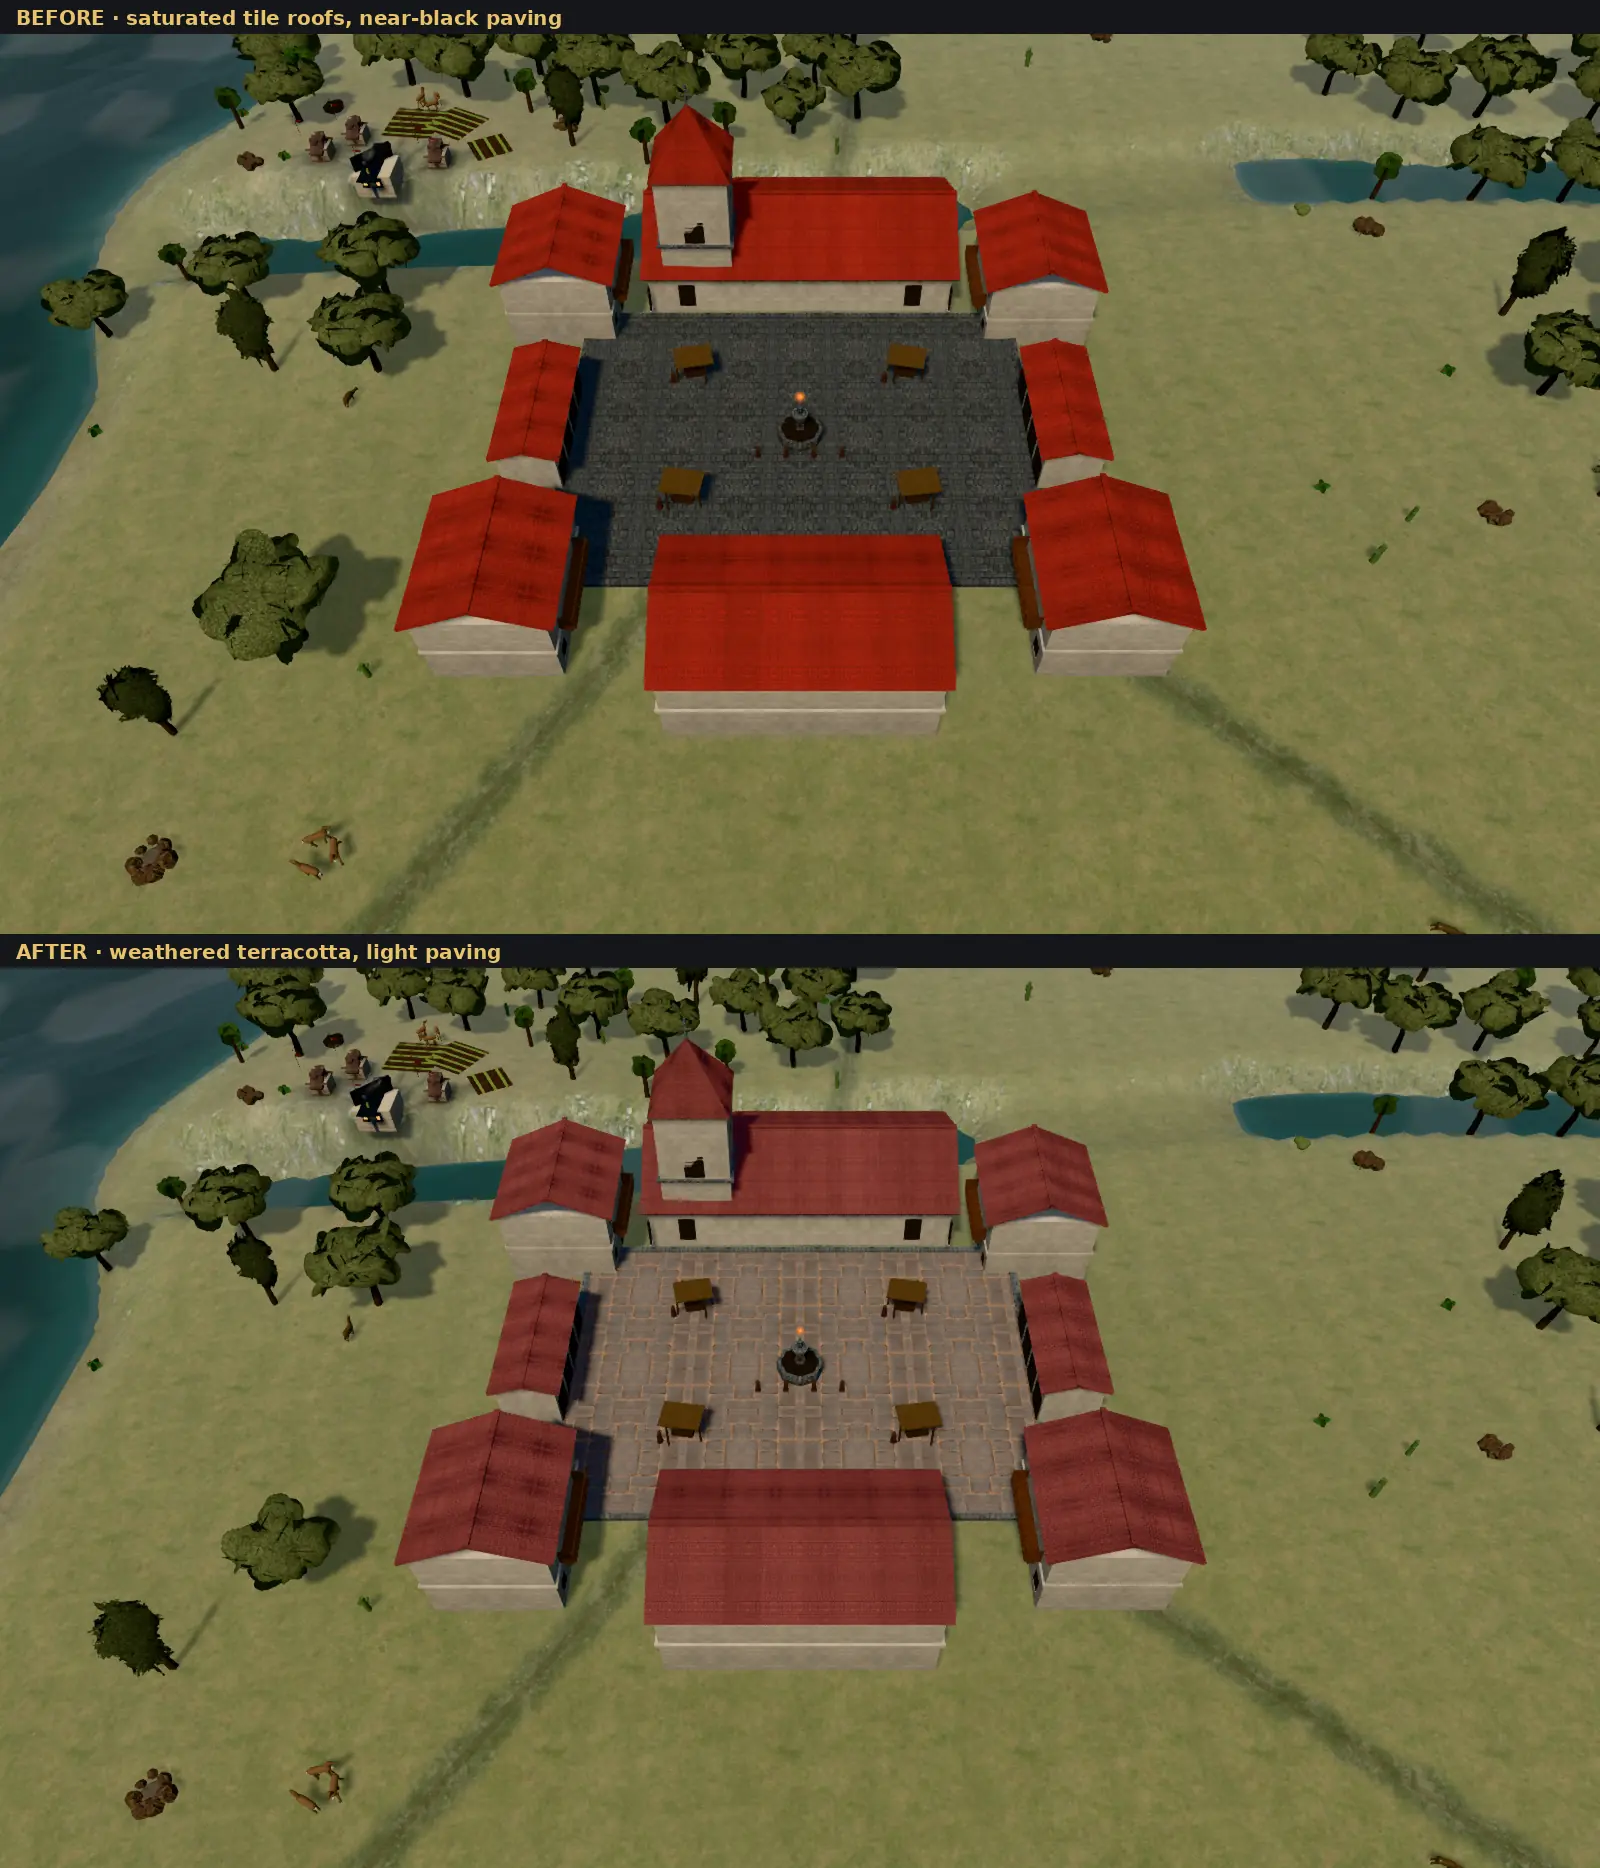
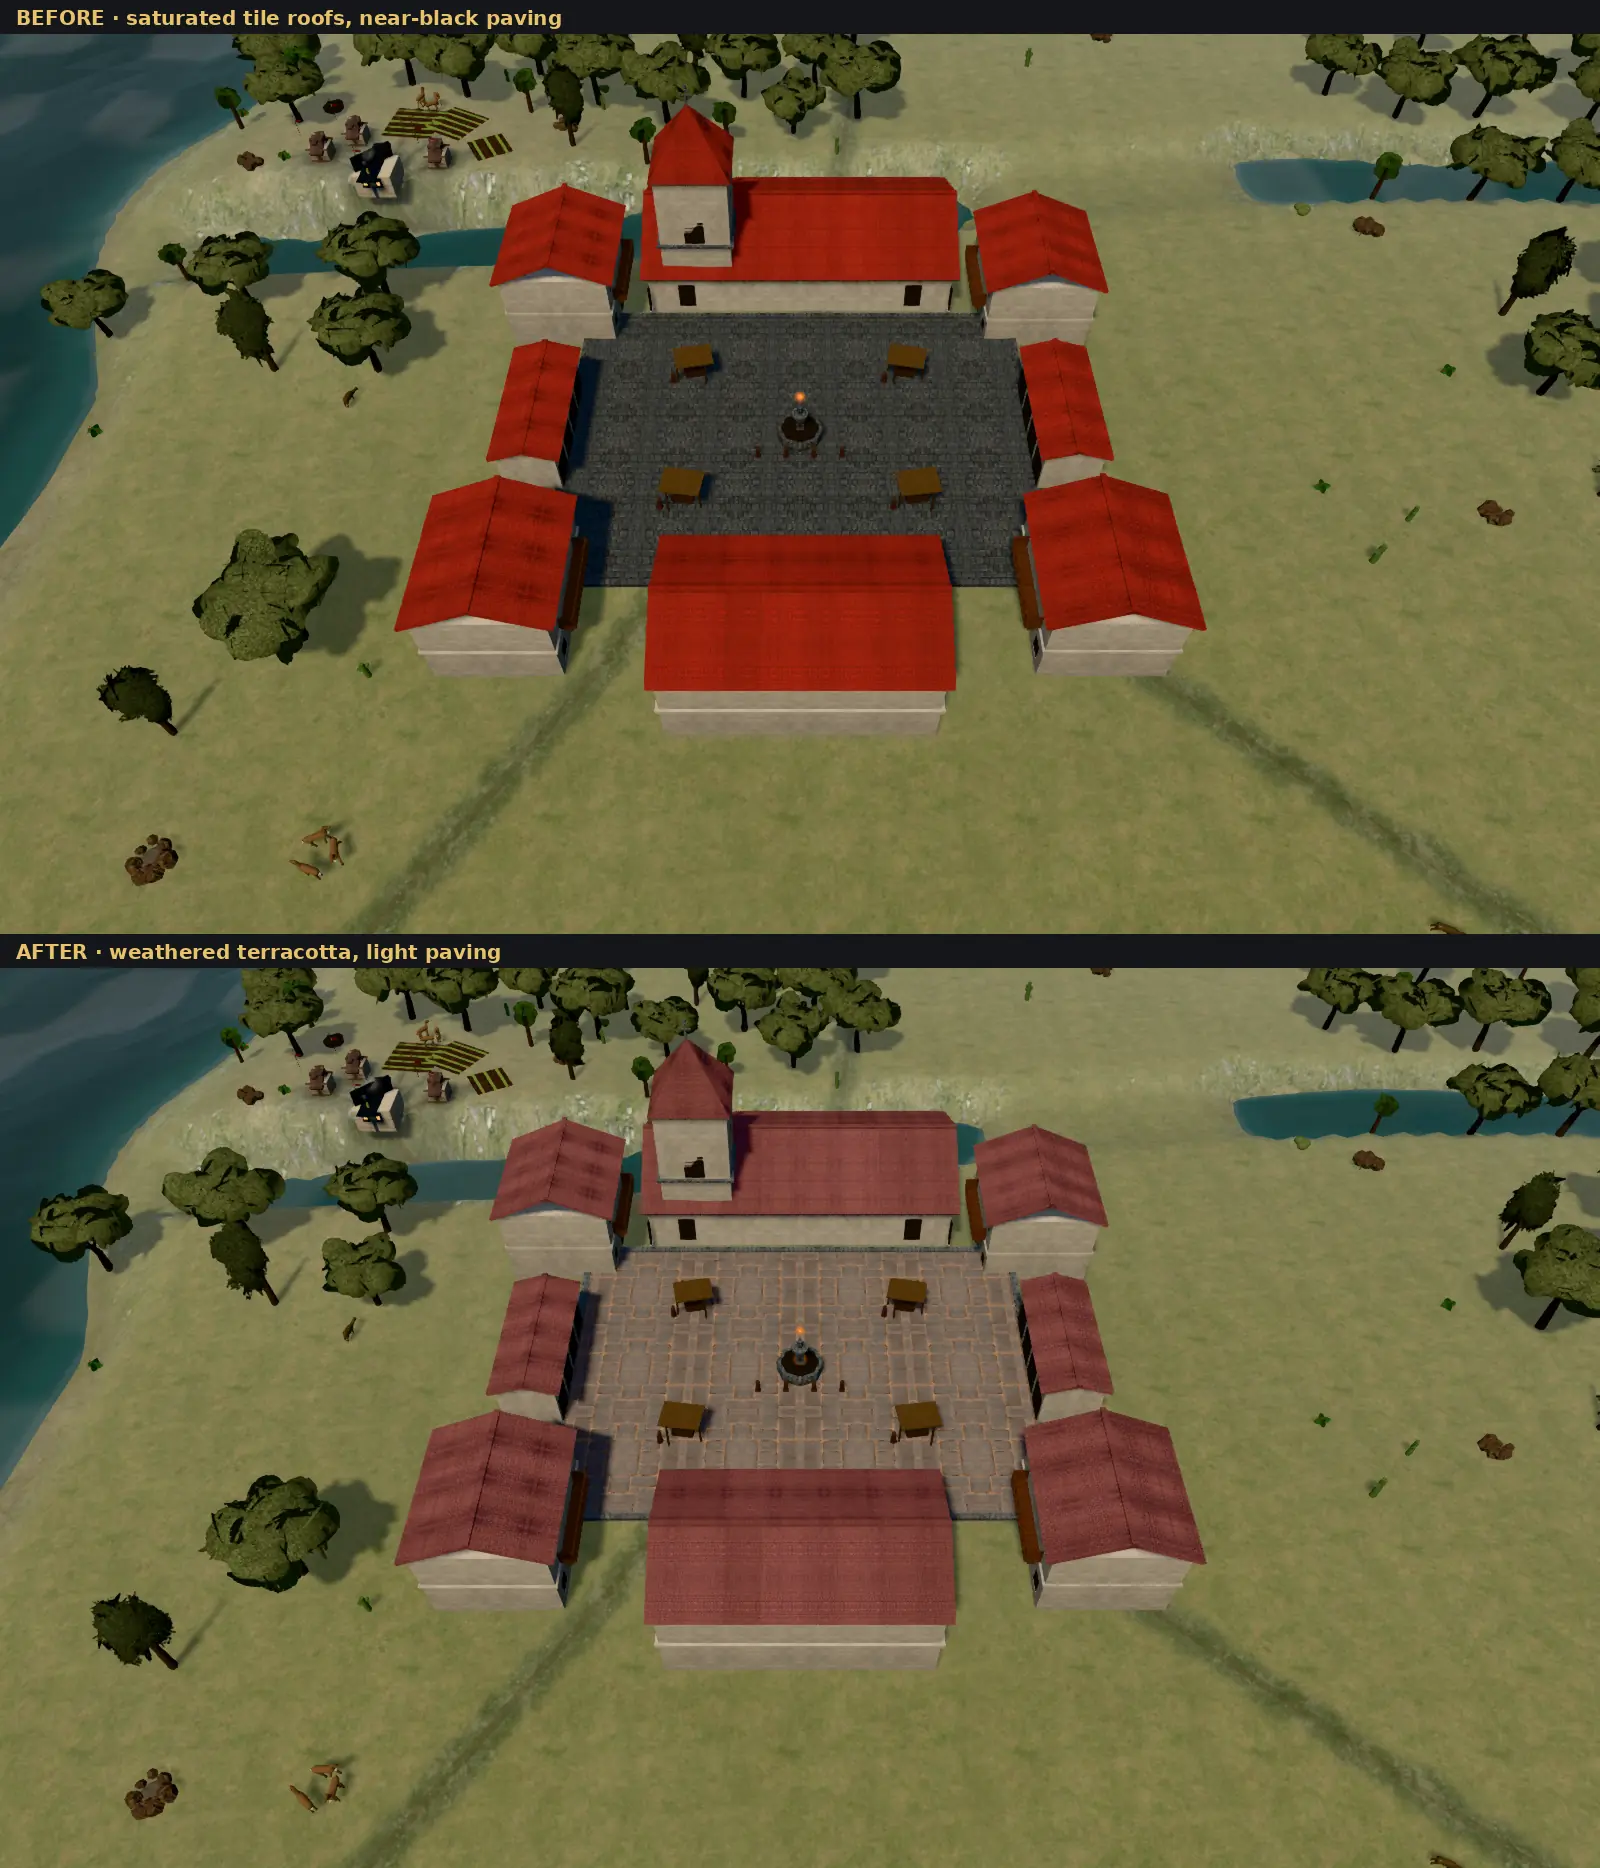
fix(architecture): tune the colonial roofs and pin the runtime surfaces
The first pass left the roofs at saturation 0.66 and darker than the originals.
The tile now keeps 42 % of its colour with a warm-tan tint and a 1.15 lift
(roof sample saturation 0.54; the plaza stays light). The docs state the
retention correctly, the test asserts the fixed §4.2 budgets and a ≤ 8-material
kit, and it also checks the game GLB and `ARCH_SURFACES` so a stale asset or a
dropped paving entry cannot pass. The fog key-composition test and the evidence
sheet are updated; PROVENANCE notes the LOD0 framing, the LOD1 coverage and the
live-frame difference.

diff --git a/tests/colonial-architecture-kit.test.ts b/tests/colonial-architecture-kit.test.ts
@@ -2,6 +2,7 @@ import { describe, it, expect } from 'vitest';
 import fs from 'node:fs';
 import path from 'node:path';
 import * as THREE from 'three';
+import { ARCH_SURFACES } from '../src/rendering/architectureKit';
 import { applyFow, createFowUniforms } from '../src/rendering/FowMaterial';
 
 interface LodStats {
@@ -34,6 +35,26 @@ const manifests = new Map<string, Manifest>(
     JSON.parse(fs.readFileSync(path.join(ROOT, `colonial_${name}_manifest.json`), 'utf8')) as Manifest,
   ]),
 );
+
+function glbJson(file: string): Record<string, any> {
+  const data = fs.readFileSync(file);
+  let offset = 12;
+  while (offset < data.length) {
+    const length = data.readUInt32LE(offset);
+    const type = data.readUInt32LE(offset + 4);
+    offset += 8;
+    if (type === 0x4e4f534a) {
+      return JSON.parse(
+        data
+          .subarray(offset, offset + length)
+          .toString('utf8')
+          .trim(),
+      ) as Record<string, any>;
+    }
+    offset += length;
+  }
+  throw new Error(`no JSON chunk in ${file}`);
+}
 
 describe('colonial architecture kit', () => {
   it('ships every piece within the §4.2 triangle and material budgets', () => {
@@ -69,6 +90,18 @@ describe('colonial architecture kit', () => {
     for (const name of ['catedral', 'cabildo', 'casona', 'portal', 'pileta', 'patio_wall']) {
       expect(manifests.get(name)!.lods.LOD0.materials, name).not.toContain('MAT-Arch_ColonialPaving');
     }
+  });
+});
+
+describe('runtime surfaces', () => {
+  it('ships the paving in the game GLB and keeps the tile desaturated', () => {
+    expect(ARCH_SURFACES['MAT-Arch_ColonialPaving'].set).toBe('ground_plaza');
+    expect(ARCH_SURFACES['MAT-Arch_ColonialStone'].lift).toBeGreaterThan(1);
+    expect(ARCH_SURFACES['MAT-Arch_ColonialTile'].saturation).toBeLessThanOrEqual(0.5);
+    const json = glbJson(path.resolve('src/assets/architecture/colonial/colonial_plaza_lod0.glb'));
+    expect((json.materials ?? []).map((material: { name?: string }) => material.name)).toContain(
+      'MAT-Arch_ColonialPaving',
+    );
   });
 });
 

diff --git a/src/rendering/architectureKit.ts b/src/rendering/architectureKit.ts
@@ -120,7 +120,7 @@ function footprint(model: ArchModel): THREE.Box3 {
  * are box-projected at world scale (TILE in the Blender script). `keepColor` keeps the material's
  * documented paint colour under a near-white detail map; otherwise `tint` (times `lift`) colours the set.
  */
-const ARCH_SURFACES: Record<
+export const ARCH_SURFACES: Record<
   string,
   { set: string; tint?: number; normal: number; keepColor?: boolean; lift?: number; saturation?: number }
 > = {
@@ -155,7 +155,13 @@ const ARCH_SURFACES: Record<
   // paving set; the stone is lifted so the kerb and the fountain do not read black.
   'MAT-Arch_ColonialPlaster': { set: 'plaster_detail', normal: 0.6, keepColor: true },
   'MAT-Arch_ColonialAdobe': { set: 'plaster_detail', normal: 0.9, keepColor: true },
-  'MAT-Arch_ColonialTile': { set: 'tile', tint: 0xead8c9, normal: 0.7, saturation: 0.55 },
+  'MAT-Arch_ColonialTile': {
+    set: 'tile',
+    tint: 0xefd9bf,
+    normal: 0.7,
+    saturation: 0.42,
+    lift: 1.15,
+  },
   'MAT-Arch_ColonialWood': { set: 'wood', tint: 0x7a5c46, normal: 0.7 },
   'MAT-Arch_ColonialStone': { set: 'wall_cutstone', tint: 0xd8d2c2, normal: 0.8, lift: 1.25 },
   'MAT-Arch_ColonialPaving': { set: 'ground_plaza', tint: 0xf0e6d6, normal: 0.5, lift: 1.25 },

diff --git a/PROVENANCE.md b/PROVENANCE.md
@@ -1011,8 +1011,10 @@ slot is absent (offline / without assets).
 - **Location**: `docs/media/colonial-kit-color-before-after.webp`, 1600x1868 WebP q74.
 - **Source**: `yarn shot lima1821-kit --url="/?mission=m_lima_1821&seed=777&fog=0&intro=0" --click --site
   --height=78 --no-hud --no-labels --wait=6000` on `main` (before) and on the branch with the regenerated kit
-  (after); the two 1600x900 frames were stacked with a Pillow label band. The kit GLBs were regenerated by
-  `scripts/blender/build_colonial_architecture_kit.py` and meshopt-compressed with
+  (after); the two 1600x900 frames were stacked with a Pillow label band. The live field and units differ
+  between the two frames; the city, camera and light are the same. The site shot frames LOD0; the LOD1 split is
+  asserted against the manifests and the game GLB in `tests/colonial-architecture-kit.test.ts`. The kit GLBs
+  were regenerated by `scripts/blender/build_colonial_architecture_kit.py` and meshopt-compressed with
   `yarn art:models --only=<colonial basenames>`. No Blender or GIMP retouching of the captures.
 - **Content**: `docs/design/colonial-site.md` "Colour and surfaces". Before, the photographed tile multiplied
   by a warm tint read as saturated red and the `wall_cutstone` plaza at z ≈ 0 took the wall-foot grime; after,

diff --git a/docs/design/colonial-site.md b/docs/design/colonial-site.md
@@ -37,7 +37,7 @@ shared PBR sets onto them (`ARCH_SURFACES` in `src/rendering/architectureKit.ts`
 | Material | Runtime surface | Why |
 | --- | --- | --- |
 | Lime plaster, adobe, dark openings | `plaster_detail`, keeping the painted colour | trowel swirls and grit without changing the documented paint. |
-| Tile roofs | photographed `tile`, pulled 55 % towards luma + a near-neutral tint | the source texture is a saturated red; a warm multiply raises its saturation in linear space, which read as fresh paint. |
+| Tile roofs | photographed `tile`, keeping 42 % of its colour (58 % towards luma) + a light warm-neutral tint | the source texture is a saturated red; a warm multiply raises its saturation in linear space, which read as fresh paint. |
 | Paving | `ground_plaza`, warmed and lifted | the floor has its own light set; the kerb and fountain keep the wall stone. |
 | Stone (kerb, fountain, bands) | `wall_cutstone`, lifted 1.25 | the cut-stone mortar read black at the RTS zoom. |
 | Wood | `wood` | balconies and doors. |
